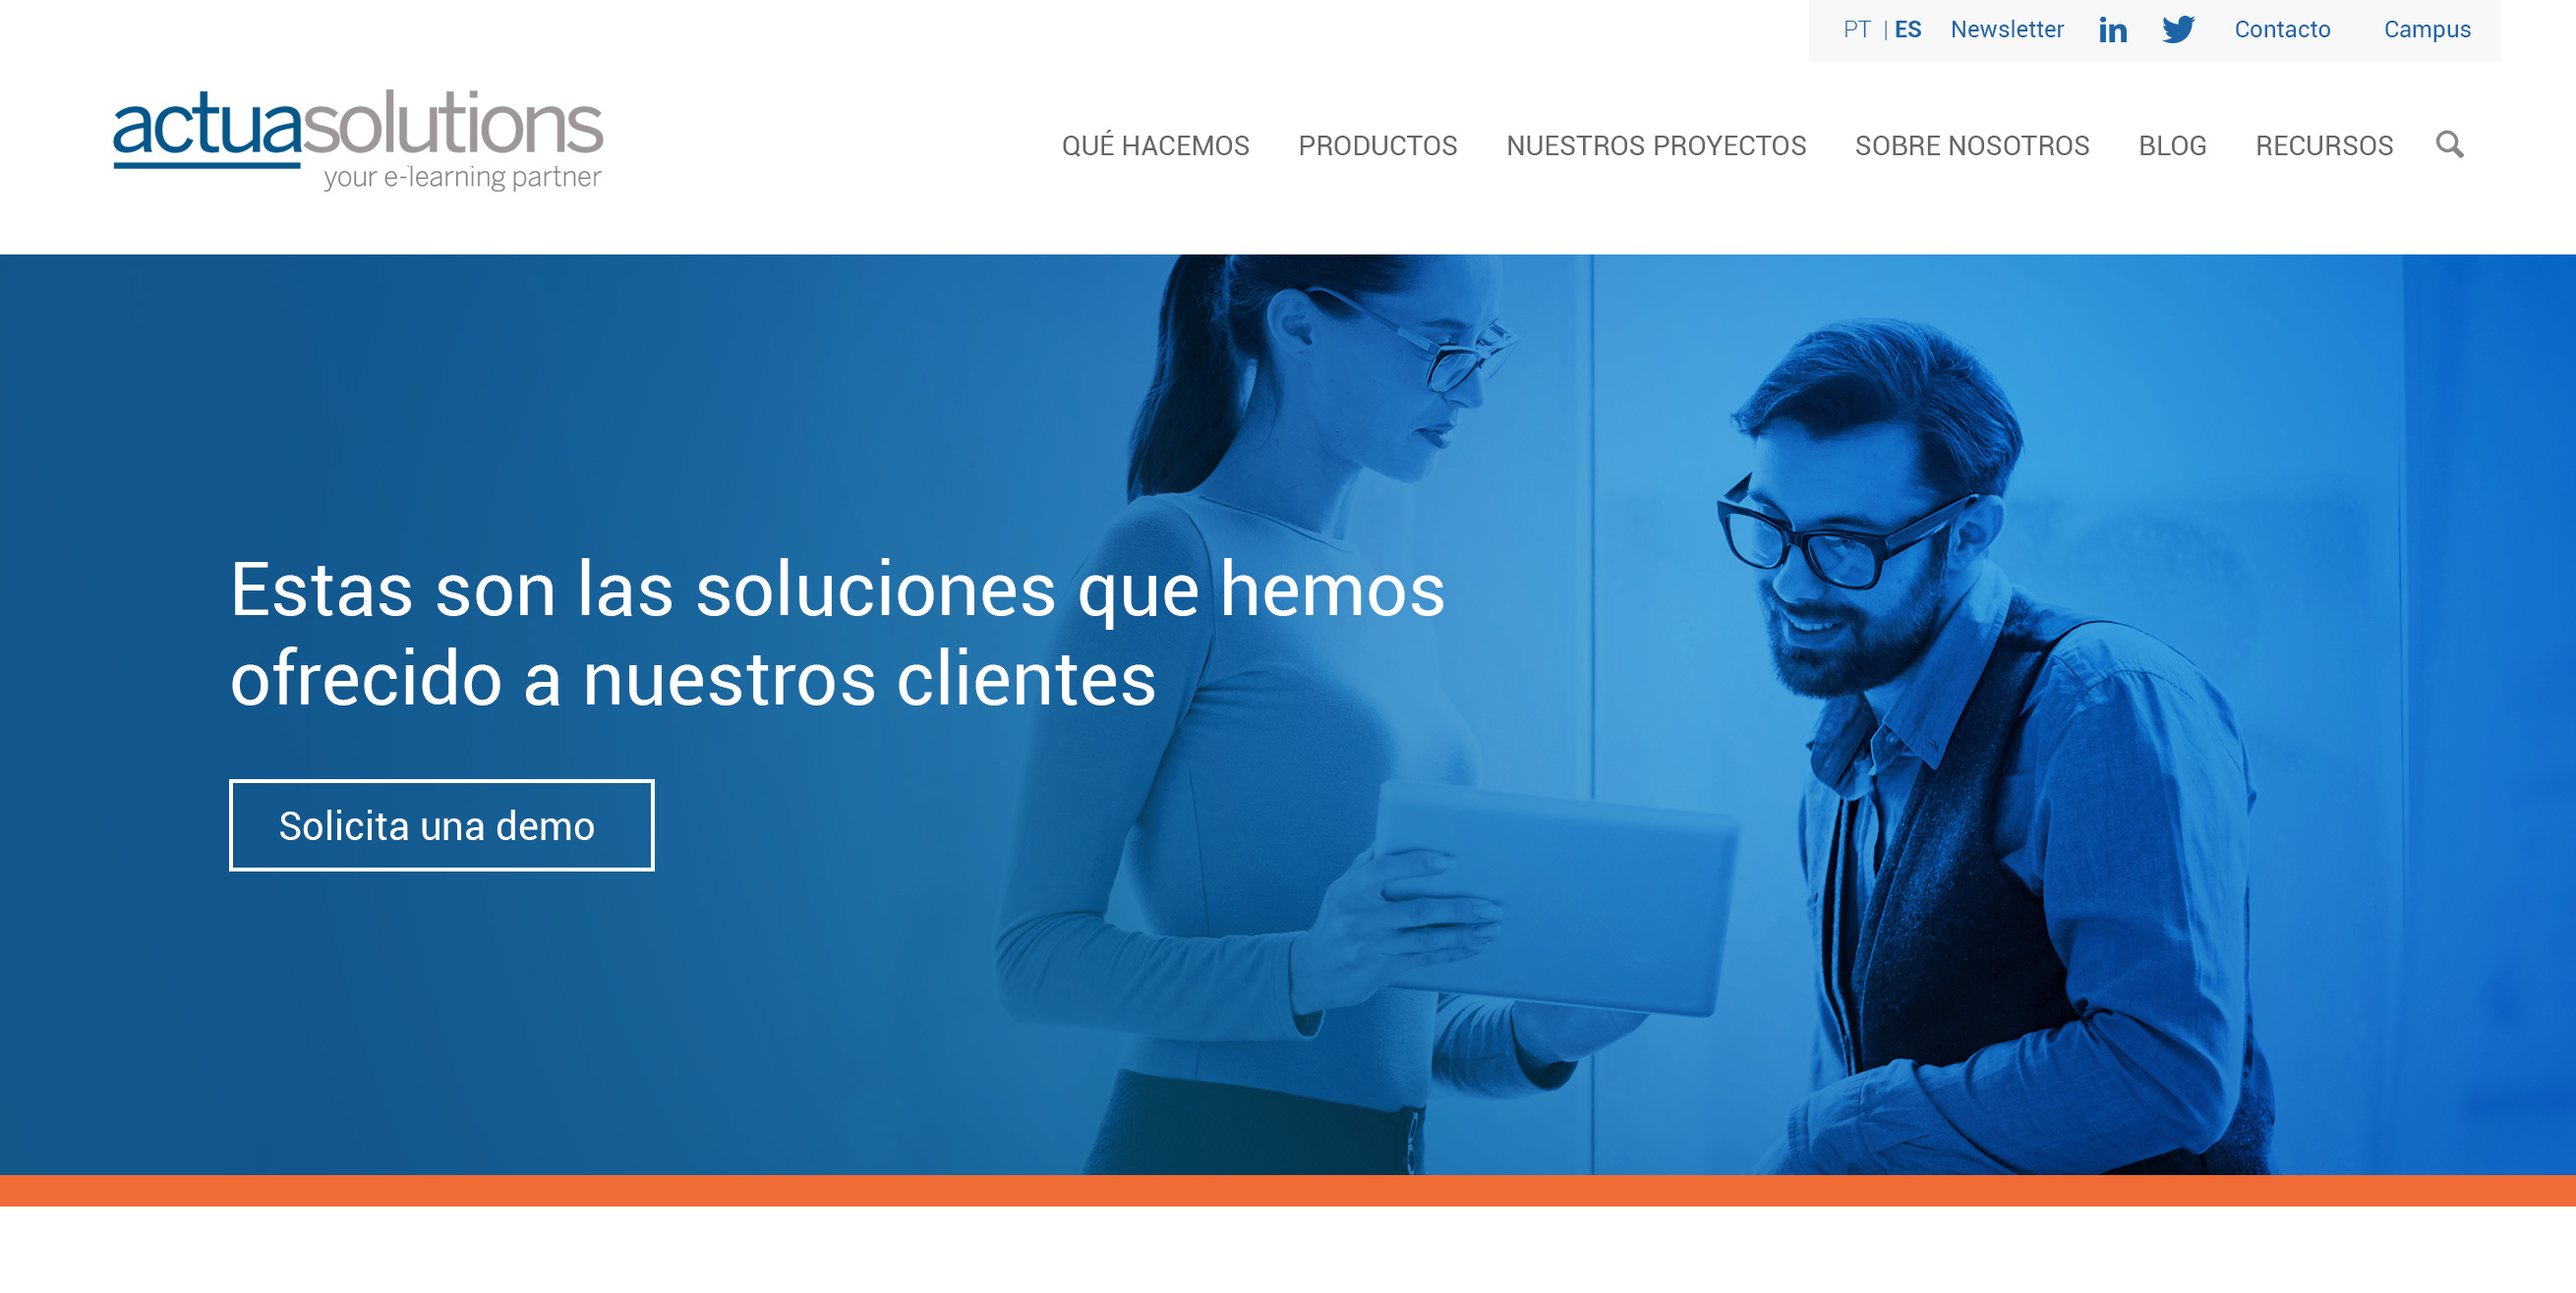
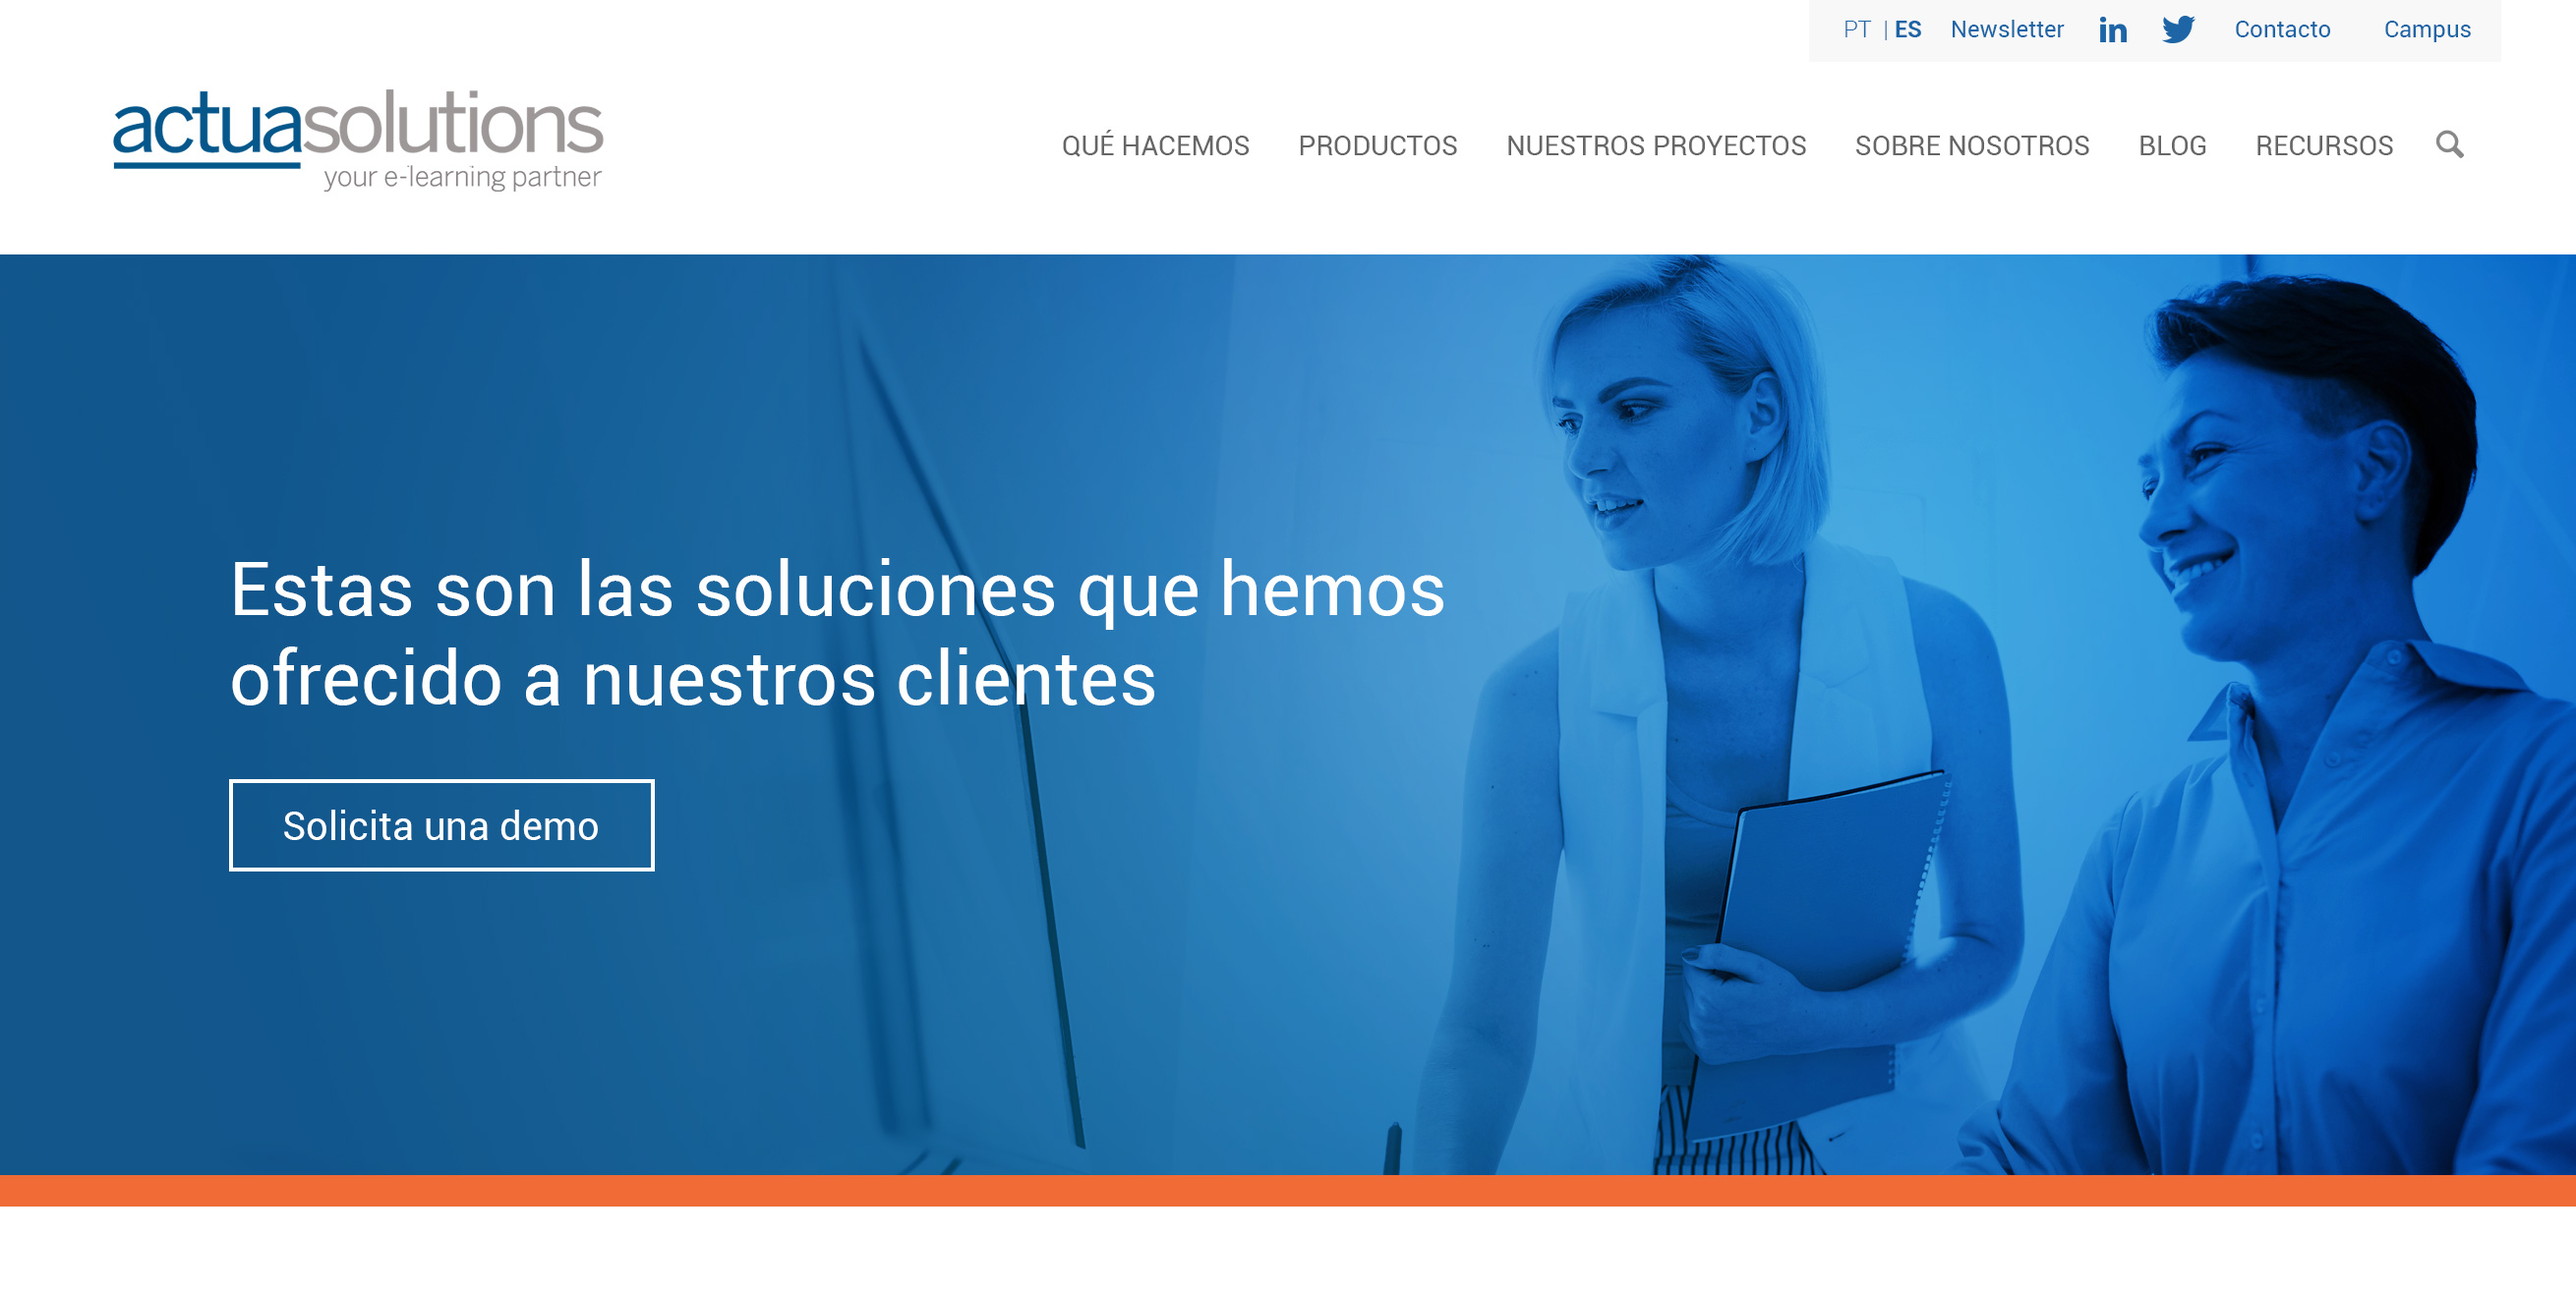
q1

diff --git a/Actua/Actua/cabecera-12b.html b/Actua/Actua/cabecera-12b.html
@@ -1,0 +1,23 @@
+<html><head><style>
+
+html, body {
+  height: 100%;
+  width: 100%;
+  padding: 0;
+  margin: 0;
+}
+
+#full-screen-background-image {
+  display:block;
+  margin-left:auto;
+  margin-right:auto;
+}
+
+
+</style></head>
+
+<body   style="background-color: #fff;">
+  <img alt="full screen background image" src="jpg/cabecera-12b.jpg" id="full-screen-background-image" width="1310px" height="658px" /> 
+</body>
+
+</html>
